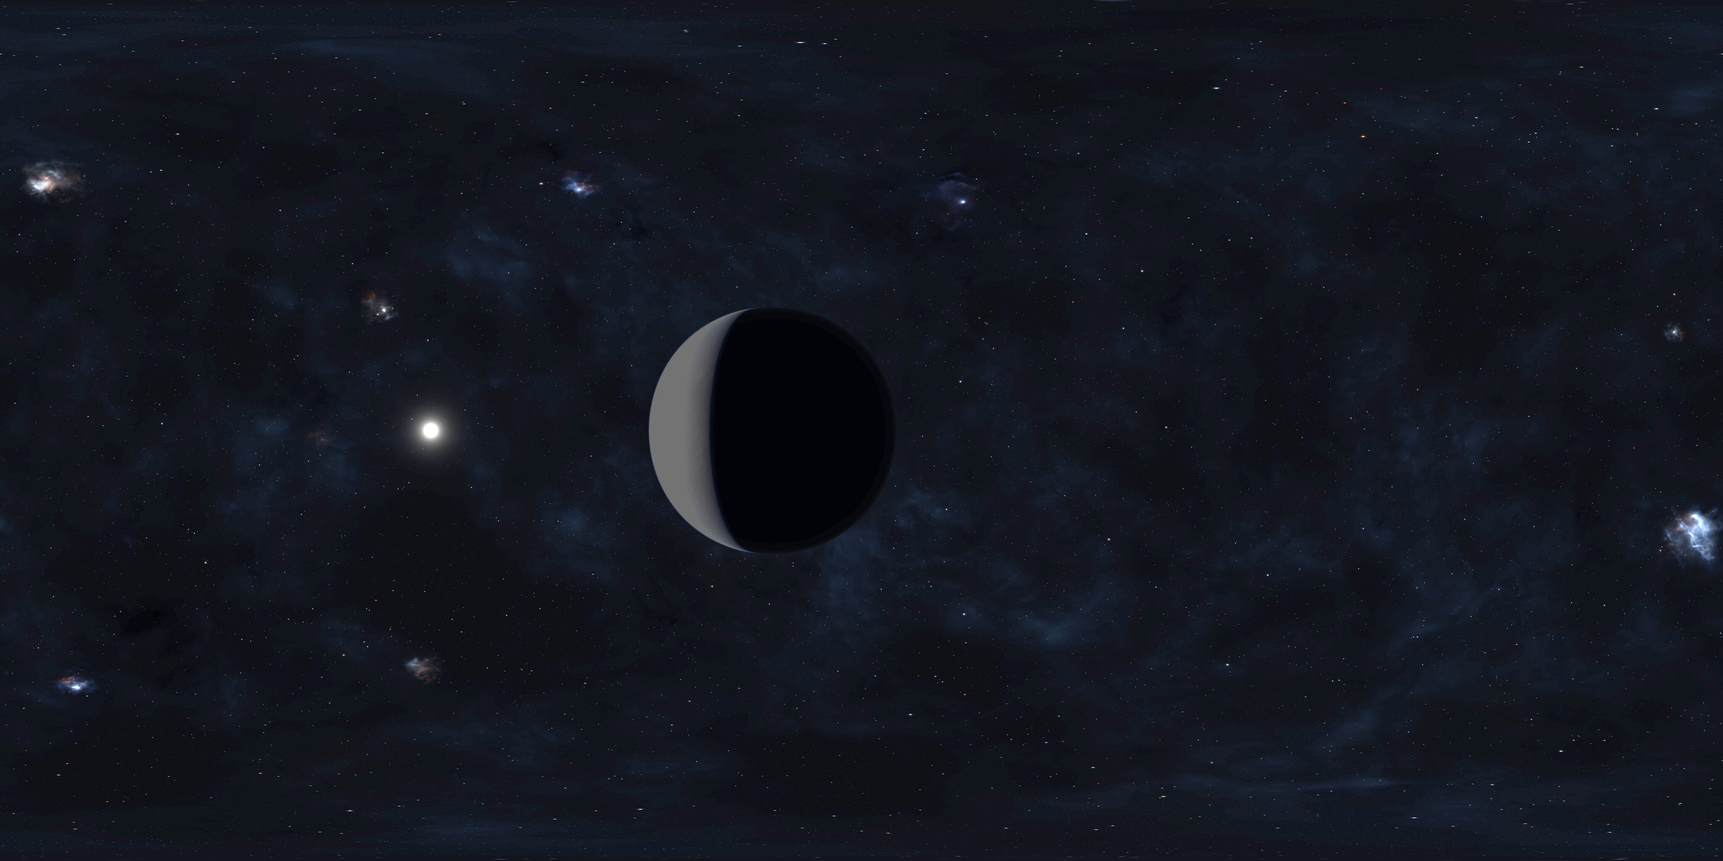
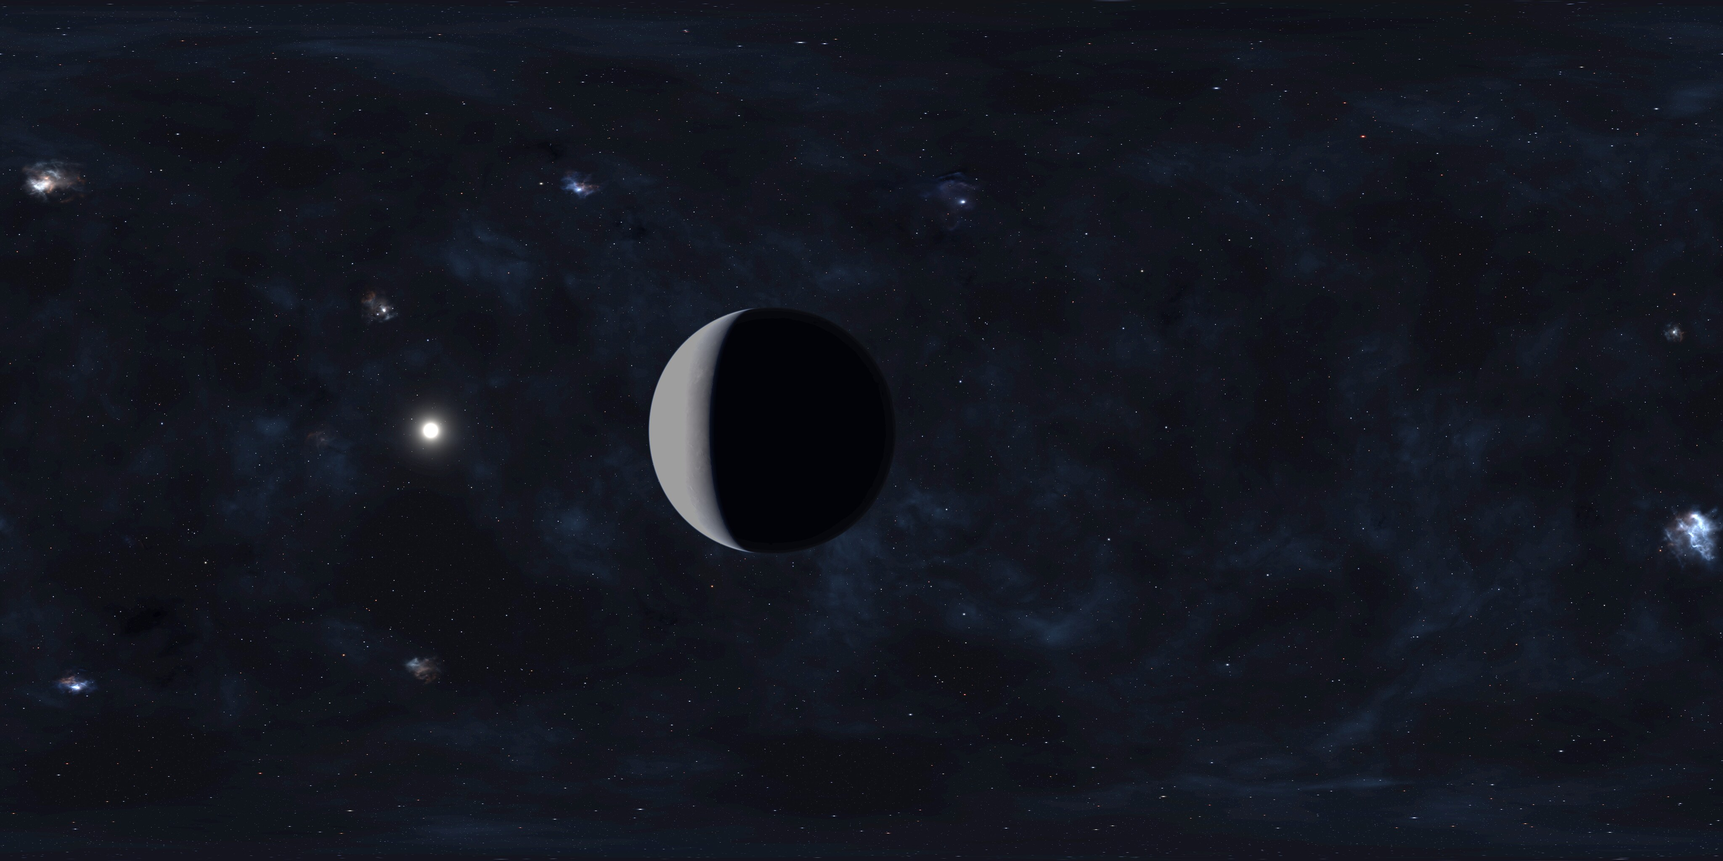
Skyboxes: planet crescent a third brighter, sky turns with the chase camera
Lit crescent of the four planet textures re-graded with slope 0.55 (was 0.35),
dark side unchanged; flat-view disc mean stays below 43. In chase mode every
sky follows the smoothed camera azimuth (0.5 s blend on mode switch), so the
planet stays top front; free and target-lock keep the world-fixed sky.
Selftest stage 127 checks the planet position after a 120 degree turn.

Claude-Session: https://claude.ai/code/session_013qZue1FgKUXpDCCcReaXcD

Changed region(s): [[0.375, 0.375, 0.4375, 0.625]]

diff --git a/godot/scripts/SelfTest.Skybox.cs b/godot/scripts/SelfTest.Skybox.cs
@@ -52,7 +52,7 @@ public partial class SelfTest
 				Check(sky.CurrentHasPlanet == planet, $"Himmel: {sec.Name} {(planet ? "mit" : "ohne")} Planet ({sky.CurrentKey})");
 				Check(_m.View.PlanetNode is null, $"Himmel: {sec.Name} ohne zusätzliche Planetenkugel");
 				var focus = SkyboxView.PanoramaDir(e.FocusU, e.FocusV);
-				var aimed = sky.Rotation * SkyboxView.WorldDir(sec.SkyboxYaw, e.Elevation);
+				var aimed = sky.Rotation * SkyboxView.WorldDir(sky.AppliedYaw, e.Elevation);   // in der Rückansicht kommt der Kamera-Gier dazu
 				Check(aimed.DistanceTo(focus) < 0.01f, $"Himmel: {sec.Name} Fokus in Blickrichtung (Abweichung {aimed.DistanceTo(focus):0.000})");
 				if (planet)
 				{
@@ -112,9 +112,107 @@ public partial class SelfTest
 		if (g == 130)
 		{
 			Check((Sky?.Loads ?? -1) == _skyLoads, $"Himmel: 120 Bilder im selben Sektor ohne Neuladen ({(Sky?.Loads ?? 0) - _skyLoads})");
+			// Rückansicht: Himmel dreht mit dem Kamera-Gier — Planet bleibt oben vorn, auch nach einer Kurve von 120°
+			var p = u.Sectors.Values.Where(s => s.Planet is not null).OrderBy(s => s.Skybox == "ice_planet" ? 0 : 1).ThenBy(s => s.Id.Value).First();
+			_m.TestEnterSector(p.Id);
+			if (_m.TestDocked) _m.TestUndock();
+			return false;
+		}
+		if (g == 136)
+		{
+			_m.TestCameraAction("cam_chase"); _m.TestCameraAction("cam_reset");
+			_m.TestFace(ShipAhead(0f));   // Kurs -Z: Standard-Rückansicht
+			_m.TestCameraAction("cam_chase");   // SnapHeading auf den neuen Kurs
+			return false;
+		}
+		if (g == 240)
+		{
+			Check(Sky is { } s0 && s0.Follow >= 0.999f, $"Himmel: Rückansicht — Himmel folgt der Kamera (Anteil {Sky?.Follow:0.00})");
+			_skyChaseA = ChaseDisc("Kurs -Z");
+			_m.TestFace(ShipAhead(120f));   // Kurve um 120°
+			return false;
+		}
+		if (g == 420)
+		{
+			var b = ChaseDisc("Kurs 120°");
+			Check(Mathf.Abs(Mathf.Wrap(_m.TestCamAngles.Yaw - 120f, -180f, 180f)) < 3f, $"Himmel: Rückansicht hat die Kurve mitgedreht (Kamera-Gier {_m.TestCamAngles.Yaw:0.0}°)");
+			Check(Mathf.Abs(b.Cx - _skyChaseA.Cx) < 0.03f && Mathf.Abs(b.Cy - _skyChaseA.Cy) < 0.03f && Mathf.Abs(b.Share - _skyChaseA.Share) < 0.02f,
+				$"Himmel: Rückansicht — Planet nach der Kurve an derselben Bildstelle (x {_skyChaseA.Cx:0.000}→{b.Cx:0.000}, y {_skyChaseA.Cy:0.000}→{b.Cy:0.000}, Anteil {_skyChaseA.Share:P1}→{b.Share:P1})");
+			_skyPrevYaw = Sky?.AppliedYaw ?? 0f;
+			_m.TestCameraAction("cam_free");
+			return false;
+		}
+		if (g == 421)
+		{
+			float step = Mathf.Abs(Mathf.Wrap((Sky?.AppliedYaw ?? 0f) - _skyPrevYaw, -180f, 180f));
+			Check(step < 10f, $"Himmel: Wechsel zur freien Kamera ohne Sprung (erstes Bild {step:0.0}°)");
+			return false;
+		}
+		if (g == 480)
+		{
+			var sec = u.Sectors[u.PlayerSector];
+			Check(Sky is { } s1 && s1.Follow <= 0.001f && Mathf.Abs(Mathf.Wrap(s1.AppliedYaw - sec.SkyboxYaw, -180f, 180f)) < 0.01f,
+				$"Himmel: freie Kamera — weltfest (Anteil {Sky?.Follow:0.00}, Gier {Sky?.AppliedYaw:0.0}° = {sec.SkyboxYaw:0.0}°)");
+			_m.TestSetCam(120f, OrbitCameraPitch, 44.94f);
+			return false;
+		}
+		if (g == 510)
+		{
+			var sec = u.Sectors[u.PlayerSector];
+			Check(Sky is { } s2 && Mathf.Abs(Mathf.Wrap(s2.AppliedYaw - sec.SkyboxYaw, -180f, 180f)) < 0.01f,
+				$"Himmel: freie Kamera um 120° geschwenkt — Himmel bleibt weltfest ({Sky?.AppliedYaw:0.0}°)");
+			_m.TestCameraAction("cam_reset");
 			return true;
 		}
 		return false;
+	}
+
+	(float Share, float Cx, float Cy) _skyChaseA;
+	float _skyPrevYaw;
+	static float OrbitCameraPitch => SpaceSim.Core.Flight.OrbitCamera.DefaultPitchDeg;
+
+	/// <summary>Punkt 1000 vor dem Schiff in Kursrichtung <paramref name="headingDeg"/> (0 = -Z; Kurs h → Richtung (-sin h, -cos h)).</summary>
+	Vec2 ShipAhead(float headingDeg)
+	{
+		var pos = _m.TestShipViewPos;
+		float h = Mathf.DegToRad(headingDeg);
+		return new Vec2(pos.X - 1000f * Mathf.Sin(h), pos.Z - 1000f * Mathf.Cos(h));
+	}
+
+	/// <summary>
+	/// Lage der Planetenscheibe im Bild der echten Kamera, mit der gerade gesetzten Himmelsdrehung (Planetenmitte = Fokus-Bildpunkt zurück in die Welt);
+	/// prüft dabei, dass die Scheibe oben im Bild liegt und das Schiff außerhalb steht.
+	/// </summary>
+	(float Share, float Cx, float Cy) ChaseDisc(string what)
+	{
+		var sky = Sky;
+		var u = _m.Session.U;
+		var sec = u.Sectors[u.PlayerSector];
+		if (sky is null || !SkyboxView.Manifest.TryGetValue(sec.Skybox, out var e)) { Check(false, "Himmel: Rückansicht ohne Himmel"); return (0f, 0f, 0f); }
+		var c = (sky.Rotation.Transposed() * SkyboxView.PanoramaDir(e.FocusU, e.FocusV)).Normalized();
+		var env = _m.GetChildren().OfType<WorldEnvironment>().First().Environment;
+		var applied = Basis.FromEuler(env.SkyRotation).Transposed();
+		Check(applied.X.DistanceTo(sky.Rotation.X) < 0.01f && applied.Z.DistanceTo(sky.Rotation.Z) < 0.01f, $"Himmel: {what} — Umgebung trägt die Drehung");
+		var cam = _m.TestCam;
+		var b = cam.GlobalBasis;
+		var vp = _m.GetViewport().GetVisibleRect().Size;
+		float aspect = vp.Y > 0f ? vp.X / vp.Y : 16f / 9f;
+		float t = Mathf.Tan(Mathf.DegToRad(cam.Fov * 0.5f)), cosR = Mathf.Cos(Mathf.DegToRad(e.Radius));
+		const int W = 96, H = 48;
+		int n = 0; float sx = 0f, sy = 0f, maxY = 0f;
+		for (int j = 0; j < H; j++)
+			for (int i = 0; i < W; i++)
+			{
+				float uu = (i + 0.5f) / W, vv = (j + 0.5f) / H;
+				var r = (b * new Vector3((2f * uu - 1f) * t * aspect, (1f - 2f * vv) * t, -1f)).Normalized();
+				if (r.Dot(c) < cosR) continue;
+				n++; sx += uu; sy += vv; maxY = Mathf.Max(maxY, vv);
+			}
+		float share = (float)n / (W * H), cx = n > 0 ? sx / n : -1f, cy = n > 0 ? sy / n : 1f;
+		Check(share >= 0.05f && cy < 0.3f && maxY < 0.6f, $"Himmel: {sec.Name} Rückansicht {what}: Planet oben im Bild (Anteil {share:P0}, Schwerpunkt x {cx:0.00} y {cy:0.00}, unterster Punkt {maxY:0.00})");
+		float gap = Mathf.RadToDeg((_m.TestShipViewPos - cam.GlobalPosition).Normalized().AngleTo(c)) - e.Radius;
+		Check(gap >= 5f, $"Himmel: {sec.Name} Rückansicht {what}: Schiff außerhalb der Scheibe (Abstand zum Rand {gap:0.0}°)");
+		return (share, cx, cy);
 	}
 
 	/// <summary>

diff --git a/godot/scripts/World/SkyboxView.cs b/godot/scripts/World/SkyboxView.cs
@@ -19,6 +19,12 @@ namespace SpaceAdventure.World;
 /// Schiff außerhalb der Scheibe bleibt; in sehr flachen Ansichten steht der Planet hinter dem Schiff — die Planetentexturen sind dafür abgedunkelt. Das Umgebungslicht bleibt eine feste Farbe, Spiegelungen aus dem Himmel sind aus —
 /// die Textur färbt Schiffe, Stationen und Felsen nicht ein.
 /// </para>
+/// <para>
+/// Rückansicht (<c>CameraMode.Chase</c>): dort folgt der Kamera-Gier dem Kurs, ein weltfester Himmel zeigte den Planeten nur beim Flug in seine
+/// Richtung. In der Rückansicht dreht sich deshalb jeder Himmel (Planeten- wie Sternhimmel, einheitlich) mit dem Gier der echten Kamera um die
+/// Hochachse — der Planet bleibt oben vorn im Bild, an derselben Stelle wie in der Standard-Rückansicht mit Kurs -Z. Bewegung zeigen weiter die
+/// weltfesten Sternstaub-Kacheln. Frei und Zielfolge: weltfest. Beim Moduswechsel blendet der Anteil in <see cref="BlendSeconds"/> über.
+/// </para>
 /// Die Textur wird nur beim Wechsel des Himmels geladen (<see cref="Loads"/>); der vorige Himmel wird freigegeben (ein Himmel im Speicher).
 /// </summary>
 public partial class SkyboxView : Node
@@ -65,8 +71,24 @@ public partial class SkyboxView : Node
 	float _yaw = float.NaN;
 	readonly HashSet<string> _missing = new();   // Diagnose: fehlende Textur nur einmal melden (Apply versucht es sonst jedes Bild)
 
-	public SkyboxView(Godot.Environment env, Func<Universe?> universe)
+	/// <summary>Überblendzeit beim Wechsel Rückansicht ↔ weltfest (Sekunden).</summary>
+	public const float BlendSeconds = 0.5f;
+
+	readonly Func<float?>? _chaseAzimuth;
+	Entry? _entry;
+	float _follow;          // 0 = weltfest, 1 = folgt der Kamera (Rückansicht)
+	float _appliedYaw = float.NaN;
+
+	/// <summary>Gier, mit dem der Himmel gerade ausgerichtet ist (Sektor-<c>skyboxYaw</c> + Kameraanteil in der Rückansicht), Grad.</summary>
+	public float AppliedYaw => _appliedYaw;
+	/// <summary>Anteil, mit dem der Himmel dem Kamera-Gier folgt (0 weltfest … 1 Rückansicht).</summary>
+	public float Follow => _follow;
+
+	/// <param name="chaseAzimuth">Gier der echten Kamera in Grad (Konvention von <see cref="WorldDir"/>: 0 = Blick nach -Z, positiv = +X), solange die
+	/// Rückansicht aktiv ist; sonst null (weltfester Himmel).</param>
+	public SkyboxView(Godot.Environment env, Func<Universe?> universe, Func<float?>? chaseAzimuth = null)
 	{
+		_chaseAzimuth = chaseAzimuth;
 		Name = "Himmel";
 		_env = env;
 		_universe = universe;
@@ -85,8 +107,25 @@ public partial class SkyboxView : Node
 	{
 		var u = _universe();
 		if (u is null || !u.Sectors.TryGetValue(u.PlayerSector, out var sec)) return;
-		if (sec.Id == CurrentSector && sec.Skybox == CurrentKey && sec.SkyboxYaw == _yaw) return;
-		Apply(sec);
+		if (sec.Id != CurrentSector || sec.Skybox != CurrentKey || sec.SkyboxYaw != _yaw) Apply(sec);
+		// Rückansicht: Himmel dreht mit dem (bereits geglätteten) Kamera-Gier; Wechsel weich überblenden
+		float? az = _chaseAzimuth?.Invoke();
+		_follow = Mathf.MoveToward(_follow, az.HasValue ? 1f : 0f, (float)delta / BlendSeconds);
+		if (az.HasValue) _lastAzimuth = az.Value;
+		Orient(_yaw + _follow * Mathf.Wrap(_lastAzimuth, -180f, 180f));
+	}
+
+	float _lastAzimuth;
+
+	/// <summary>Richtet den aktuellen Himmel mit dem Gier <paramref name="yawDeg"/> aus (nur bei Änderung).</summary>
+	void Orient(float yawDeg)
+	{
+		if (_entry is null || _env.Sky is null) return;
+		if (!float.IsNaN(_appliedYaw) && Mathf.Abs(Mathf.Wrap(yawDeg - _appliedYaw, -180f, 180f)) < 0.005f) return;
+		_appliedYaw = yawDeg;
+		Rotation = Orientation(_entry, yawDeg);
+		// Godot dreht die Blickrichtung mit der Inversen der Himmelsorientierung in den Himmelsraum (sky.glsl) — also die Inverse setzen
+		_env.SkyRotation = Rotation.Transposed().GetEuler();
 	}
 
 	/// <summary>Setzt den Himmel des Sektors (lädt die Textur nur, wenn sich der Himmel ändert).</summary>
@@ -97,7 +136,7 @@ public partial class SkyboxView : Node
 		if (!Manifest.TryGetValue(sector.Skybox, out var e))
 		{
 			Log(sector, $"kein Himmel (Schlüssel '{sector.Skybox}', Verzeichnis {Manifest.Count} Einträge) → Farbhintergrund");
-			CurrentKey = sector.Skybox; CurrentHasPlanet = false;
+			CurrentKey = sector.Skybox; CurrentHasPlanet = false; _entry = null;
 			_mat.Panorama = null;
 			_env.BackgroundMode = Godot.Environment.BGMode.Color;
 			_env.BackgroundColor = _fallbackColor;
@@ -111,16 +150,15 @@ public partial class SkyboxView : Node
 			if (tex is null)
 			{
 				if (_missing.Add(e.File)) { GD.PushWarning($"Himmel {e.File} fehlt"); Log(sector, $"Textur {e.File} NICHT geladen"); }
-				CurrentKey = ""; return;
+				CurrentKey = ""; _entry = null; return;
 			}
 			_mat.Panorama = tex;   // der vorige Himmel verliert damit seine letzte Referenz und wird freigegeben
 		}
-		CurrentKey = e.Key; CurrentHasPlanet = e.Planet;
-		Rotation = Orientation(e, sector.SkyboxYaw);
+		CurrentKey = e.Key; CurrentHasPlanet = e.Planet; _entry = e;
 		_env.Sky = _sky;
 		_env.BackgroundMode = Godot.Environment.BGMode.Sky;
-		// Godot dreht die Blickrichtung mit der Inversen der Himmelsorientierung in den Himmelsraum (sky.glsl) — also die Inverse setzen
-		_env.SkyRotation = Rotation.Transposed().GetEuler();
+		_appliedYaw = float.NaN;   // neu ausrichten (Kameraanteil der Rückansicht kommt in _Process dazu)
+		Orient(sector.SkyboxYaw + _follow * Mathf.Wrap(_lastAzimuth, -180f, 180f));
 		Log(sector, $"Himmel '{e.Key}' {Describe(_mat.Panorama)}");
 	}
 

diff --git a/godot/scripts/UiShots.Sky.cs b/godot/scripts/UiShots.Sky.cs
@@ -50,7 +50,21 @@ public partial class UiShots
 			case 599_022: _m.TestSetCam(0f, 20f, 44.94f); _stage = 599_023; _wait = 20; return;
 			case 599_023: SkyCapture(F("flach"), sec); _stage = 599_012; _wait = 5; return;
 			case 599_012: _m.TestCameraAction("cam_chase"); _m.TestCameraAction("cam_reset"); _stage = 599_013; _wait = 90; return;   // Rückansicht auf Höhe 45 / Abstand 35
-			case 599_013: SkyCapture(F("rueckansicht"), sec); _stage = planet ? 599_030 : 599_014; _wait = 5; return;
+			case 599_013: SkyCapture(F("rueckansicht"), sec); _stage = planet ? 599_040 : 599_014; _wait = 5; return;
+			// Rückansicht nach einer Kurve um 120°: der Himmel dreht mit der Kamera, der Planet steht an derselben Bildstelle
+			case 599_040:
+			{
+				var p = _m.TestShipViewPos; float h = Mathf.DegToRad(120f);
+				_m.TestFace(new Vec2(p.X - 1000f * Mathf.Sin(h), p.Z - 1000f * Mathf.Cos(h)));
+				_stage = 599_041; _wait = 120; return;
+			}
+			case 599_041:
+			{
+				SkyCapture(F("rueck-kurve"), sec);
+				var p = _m.TestShipViewPos;
+				_m.TestFace(new Vec2(p.X, p.Z - 1000f));   // zurück auf Kurs -Z
+				_stage = 599_030; _wait = 120; return;
+			}
 			// flache Rückansicht: Höhe 45 → 15 (drei Stufen tiefer), Abstand 35
 			case 599_030: for (int i = 0; i < 3; i++) _m.TestCameraAction("chase_down"); _stage = 599_031; _wait = 90; return;
 			case 599_031: SkyCapture(F("rueck-flach"), sec); _m.TestCameraAction("cam_reset"); _stage = 599_014; _wait = 5; return;
@@ -77,7 +91,9 @@ public partial class UiShots
 			GD.Print($"[ui-shots] {file}  {img.GetWidth()}x{img.GetHeight()}  err={err}");
 			if (sec.Planet is null || !World.SkyboxView.Manifest.TryGetValue(sec.Skybox, out var e) || e.Radius <= 0f) return;
 			int w = img.GetWidth(), h = img.GetHeight();
-			var c = World.SkyboxView.WorldDir(sec.SkyboxYaw, e.Elevation).Normalized();
+			// Planetenmitte aus der gerade gesetzten Himmelsdrehung (in der Rückansicht dreht der Himmel mit der Kamera)
+			var sky = _m.GetChildren().OfType<World.SkyboxView>().FirstOrDefault();
+			var c = (sky is null ? World.SkyboxView.WorldDir(sec.SkyboxYaw, e.Elevation) : sky.Rotation.Transposed() * World.SkyboxView.PanoramaDir(e.FocusU, e.FocusV)).Normalized();
 			float cosR = Mathf.Cos(Mathf.DegToRad(e.Radius));
 			float t = Mathf.Tan(Mathf.DegToRad(cam.Fov * 0.5f)), aspect = (float)w / h;
 			var b = cam.GlobalBasis;

diff --git a/godot/scripts/Main.cs b/godot/scripts/Main.cs
@@ -3023,7 +3023,7 @@ public partial class Main : Node3D
 			GlowEnabled = true,
 		};
 		AddChild(new WorldEnvironment { Environment = env });
-		AddChild(new World.SkyboxView(env, () => _session?.U));   // Himmelskugel je Sektor (eigene Komponente, folgt dem Spielersektor)
+		AddChild(new World.SkyboxView(env, () => _session?.U, ChaseSkyAzimuth));   // Himmelskugel je Sektor (eigene Komponente, folgt dem Spielersektor; in der Rückansicht dreht sie mit der Kamera)
 		AddChild(new DirectionalLight3D { RotationDegrees = new Vector3(-50, 30, 0), LightEnergy = 1.3f });
 		// Runde 8: schwaches, kühles Fülllicht von der Gegenseite (ohne Schatten, mobil billig) — die abgewandten Seiten der Modelle versinken sonst
 		AddChild(new DirectionalLight3D { RotationDegrees = new Vector3(-25, 210, 0), LightEnergy = 0.45f, LightColor = new Color(0.7f, 0.8f, 1f), ShadowEnabled = false });
@@ -3562,7 +3562,21 @@ public partial class Main : Node3D
 	/// <summary>Aktueller Ist-Offset der Kamera relativ zum Schiff (Selbsttest).</summary>
 	internal Vector3 TestCamOffset => new(_camOffset.X, _camOffset.Y, _camOffset.Z);
 	internal Camera3D TestCam => _cam;
+
+	/// <summary>
+	/// Gier der echten Kamera in Grad (0 = Blick nach -Z, positiv = +X), solange die Rückansicht aktiv ist — der Himmel dreht dann mit (Planet bleibt oben
+	/// vorn im Bild); sonst null (weltfester Himmel). Aus der Kamera selbst, damit der Himmel genau der geglätteten Kamera folgt.
+	/// </summary>
+	float? ChaseSkyAzimuth()
+	{
+		if (_orbit.Mode != CameraMode.Chase || _cam is null || !IsInstanceValid(_cam)) return null;
+		var f = -_cam.GlobalBasis.Z;
+		if (f.X * f.X + f.Z * f.Z < 1e-8f) return null;
+		return Mathf.RadToDeg(Mathf.Atan2(f.X, -f.Z));
+	}
 	internal Vector3 TestCamPos => _cam.Position;
+	/// <summary>Weltposition des Spielerschiffs in der Ansicht (Selbsttest Himmel: Schiff außerhalb der Planetenscheibe).</summary>
+	internal Vector3 TestShipViewPos => _player.Position;
 	/// <summary>Bildschirm → Welt: Schnitt des Kamerastrahls durch diesen Pixel mit der XZ-Ebene (wie „Halten fliegt zum Zeiger“).</summary>
 	internal Vector3? TestGroundPoint(Vector2 screen) => GroundPoint(screen);
 	/// <summary>Welt → Bildschirm: projiziert einen Weltpunkt (Roundtrip-Prüfung mit gedrehter Kamera).</summary>

diff --git a/CLAUDE.md b/CLAUDE.md
@@ -1457,5 +1457,7 @@ User decision: planet sectors get a sky that shows their planet, all other secto
 - **Images.** One shared grading for all ten (ImageMagick `-resize 4096x2048 -level 0%,38%,1.2 -modulate 100,125 +level-colors #020309,#ffffff`, JPEG q88; `LICENSE.txt` in the folder), imported VRAM-compressed without mipmaps: 4 MiB per sky on the GPU (ETC2/S3TC), APK ≈ 40 MiB uncompressed / ≈ 16 MiB zipped for all ten.
 - **View.** `World/SkyboxView` (own component, created in `Main.BuildEnvironment`) follows `Universe.PlayerSector`, loads a texture only on a sky change (one sky in memory), sets `PanoramaSkyMaterial` + `Environment.SkyRotation` (focus pixel ahead of the default camera, no roll); ambient light stays a fixed colour, reflections from the sky are off. The sky planet replaces the old planet sphere (`SectorView.BuildPlanet` only without a resolvable sky); the star tiles stay for parallax but are now fine, dim dust in front of the sky (`Main.BuildStars`: cube edge 0.5 → `StarSize` 0.2, scale 0.4–1.6 → 0.5–1.3, i.e. 0.2–0.8 → 0.1–0.26 units; white emissive material with energy 2 → unshaded material with a per-instance colour of brightness `StarBrightMin`–`StarBrightMax` 0.22–0.55 and a ±6 % warm/cool tint, no glow; same seed, 500 stars, 3 × 3 tiles on the 800 grid unchanged; selftest stage 124 checks size, unshaded and brightness). Selftest stage 127 (`SelfTest.Skybox.cs`); `--ui-shots <dir> --ui-shots-sky` writes standard/chase/zoomed-out images per sector (`UiShots.Sky.cs`); tests `SkyboxTests`.
 - **Planet placement (device fix "Kalypso background a flat blue-grey", user decision "middle way").** The original placement (centre −24°, Aurelia −6°, bright textures) put the bright disc behind the ship in flat views (35–99 % of the screen, lit crescent up to 255); a first fix moved the planets above the plane, which hid them in normal play. Now: the planets stand **below** the plane roughly where they were, but their textures are **darkened**: manifest `elevation` −24° for desert/earthlike/ice planet (radius 25.5°, `focusU` 0.447) and −4° for `earthlike_planet_close` (radius 48.5°, 0.477), sector yaw 12° (Aurelia 16°) so the lit crescent (left side of each disc) sits top-centre between the status panel and the target card. The default view (free camera 57.7°, vertical FOV 50°, top edge −32.7°, `SkyboxView.DefaultTopEdgeDeg`) and the default chase view (height 45 / back 35, 52.1°) show the disc at the top edge with the ship outside it (≥ 5° from the limb); at steep pitch (80°) the planet is out of view; at flat pitch (free 20°, zoomed-out 30°, chase height 15) the disc stands behind the ship — accepted, kept calm by the darkening. **Darkening:** the four planet textures were re-graded from the sources (same shared grading, then `darken.py` in `/home/gerd/space-adventure-scratch-archiv/skyboxen/planeten/py/`: inside a soft angular mask around the planet centre — r 26.5→30° resp. 49.5→54° — pixels above luminance 40 are compressed to 40 + (L − 40) × 0.35, 5 % desaturated; space, stars and the dark side unchanged, star skies untouched). Measured on screen (`--ui-shots <dir> --ui-shots-sky`, 1560×720 = device aspect; planet sectors also `steil` 80°, `flach` 20°, `rueck-flach` chase height 15; `sky-messung.txt` gives the mean Rec. 709 luminance of the disc pixels — HUD and stations in front included — and the disc's screen box): default view disc 13 % (Aurelia 26 %) of the screen, y 0–0.36 (Aurelia 0–0.45), mean 25–28; chase view 19 % (Aurelia 34 %), y 0–0.47 (0.56), mean 29–37; flat views (free 20°, zoomed-out 30°, chase height 15 — screen centre in the disc) mean 26–37 (original 40–73), 90 % quantile 85–117 (original 139–253); steep view no planet (Aurelia a 0.1 % sliver at the top edge). Selftest stage 127 checks per planet sector: centre below the plane, in the default and the chase view the disc covers ≥ 5 % of the screen with its centroid in the upper third (x 0.25–0.8, lowest point above 60 % of the height) and the ship ≥ 5° outside the disc, the live camera does not look into it; star skies have radius 0.
+- **Brighter crescent (device test: in the default view the planet was too subtle, Kalypso mostly a black disc).** The planet textures are now darkened with `darken2.py` (same folder, `darken.py` kept): same mask, knee 40 and 5 % desaturation, but slope **0.55** instead of 0.35 — the lit crescent is about a third brighter (texture peak 115 → 158), the dark side (L ≤ 40) unchanged. Measured with the same shots (`sichel/vorher`, `sichel/nachher`, `sichel-messung.txt`: crescent pixels = disc-box pixels that changed and were > 42 before): crescent mean ×1.22–1.33 in every view (e.g. Kalypso default 92 → 117, Aurelia default 99 % quantile 118 → 161); disc mean default 25–28 → 26–31, chase 29–37 → 31–40, flat views (free 20°, zoomed-out 30°, chase height 15) 26–37 → 30–43 (limit ~60), their 90 % quantile 85–117 → 102–161.
+- **Sky turns with the chase camera.** In `CameraMode.Chase` the camera yaw follows the course while the sky is world-fixed, so the planet was only visible when flying towards it. Now `SkyboxView` gets the azimuth of the real (already smoothed) camera from `Main.ChaseSkyAzimuth` (only in chase mode, else null) and orients **every** sky (planet and star skies alike, for consistency) with `skyboxYaw` + that azimuth: the planet stays top-front at the same screen place as in the default chase view with course −Z; the world-fixed star-dust tiles still show the motion. Free and target-lock modes stay world-fixed. Mode switches blend the camera share over `SkyboxView.BlendSeconds` (0.5 s; `Follow`, `AppliedYaw`); the sky rotation is only rewritten when the yaw changes by ≥ 0.005°. View only (hash unchanged). Selftest stage 127: chase in Kalypso, course −Z vs after a 120° turn — disc centroid and share identical (difference < 0.001), ship ≥ 5° outside, the environment carries the rotation; switching to free camera without a jump (first frame ≤ 10°), then world-fixed also with the free camera turned by 120°. `--ui-shots-sky` adds `rueck-kurve` (chase after a 120° turn) and measures the disc from the applied sky rotation.
 - **Device fix: black sky with an old save.** Saves written before the skybox commit have no `Skybox` per sector, so `SkyboxView` fell silently into the colour background (exactly the (0,0,13) black of the device screenshots; Vulkan/Forward Mobile on Mali-G57 and ETC2 textures were ruled out — the ETC2 `.ctex` renders on desktop). `UniverseSerializer.FillDefaultSkyboxes` (called at the end of `FromSave`): if no sector has a sky and every sector exists by id and name in the embedded default world (also the old 4-sector world), the skies and yaws of the default world are taken over; custom worlds stay untouched; not hashed. `SkyboxView` prints one `[sky]` line at start (manifest count, renderer/driver, GPU, ETC2/S3TC/ASTC) and one per sky change (sector, key or "kein Himmel", texture path/size/format, background mode, sky/material set). Tests `SkyboxTests` (+2).
 - **ui-check order.** A single run reported "Hinweis verdeckt „Waferfabrik Beta · 10 m“ (gezeichnet)" at `2340x1080a f1,30 meldung-toast` (not reproduced in 4 targeted + 2 full runs; not caused by the sky — the state depends on where earlier states left the ship). The tool processed after `Main`/`Hud` in each frame, so it read the toast's current-frame rect against edge names drawn in the previous frame (the edge names avoid the toast of their own frame); it now runs first (`ProcessPriority` −1000), so everything it reads is the last drawn state.
